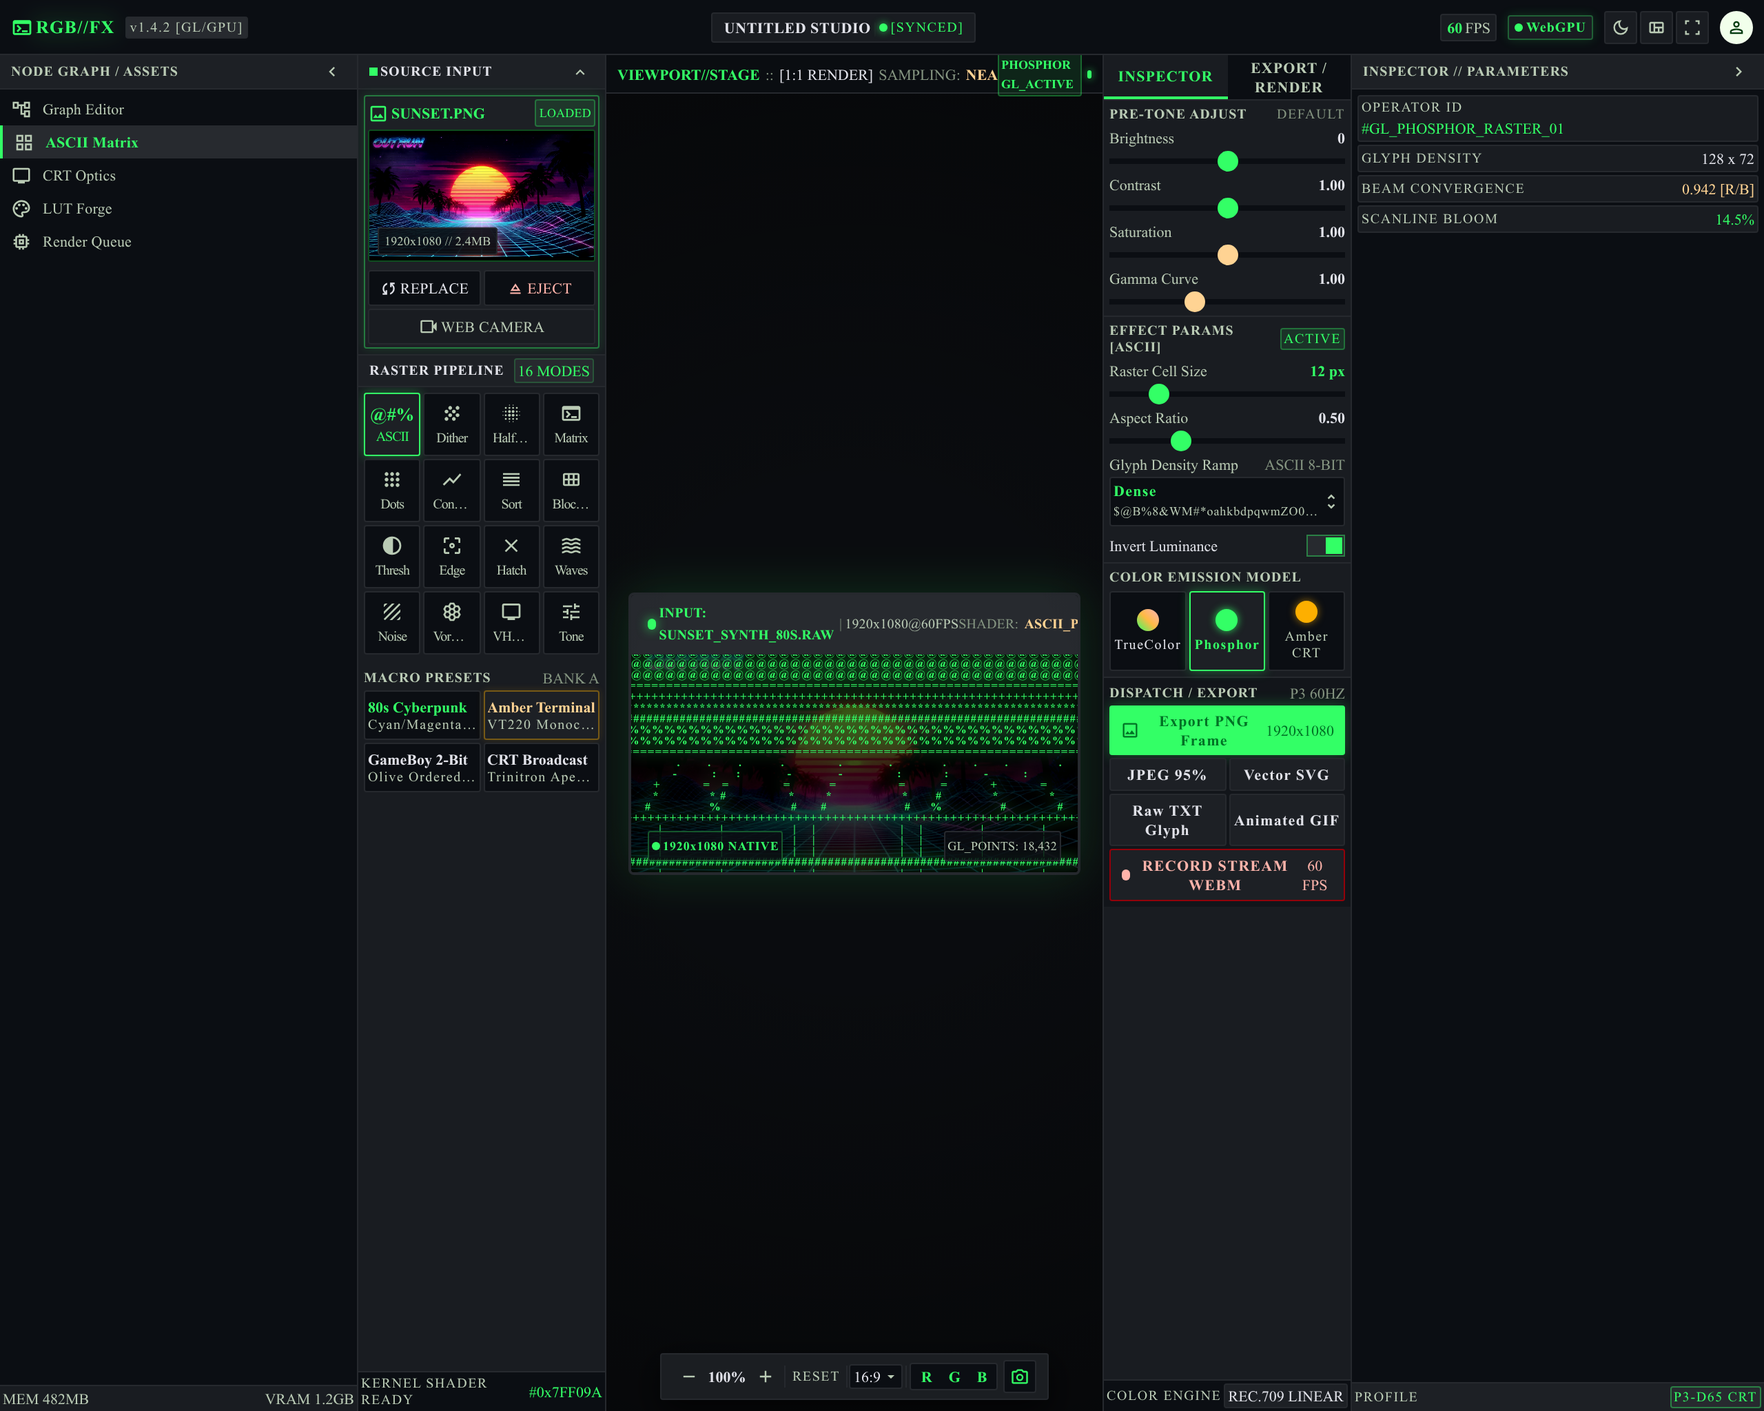
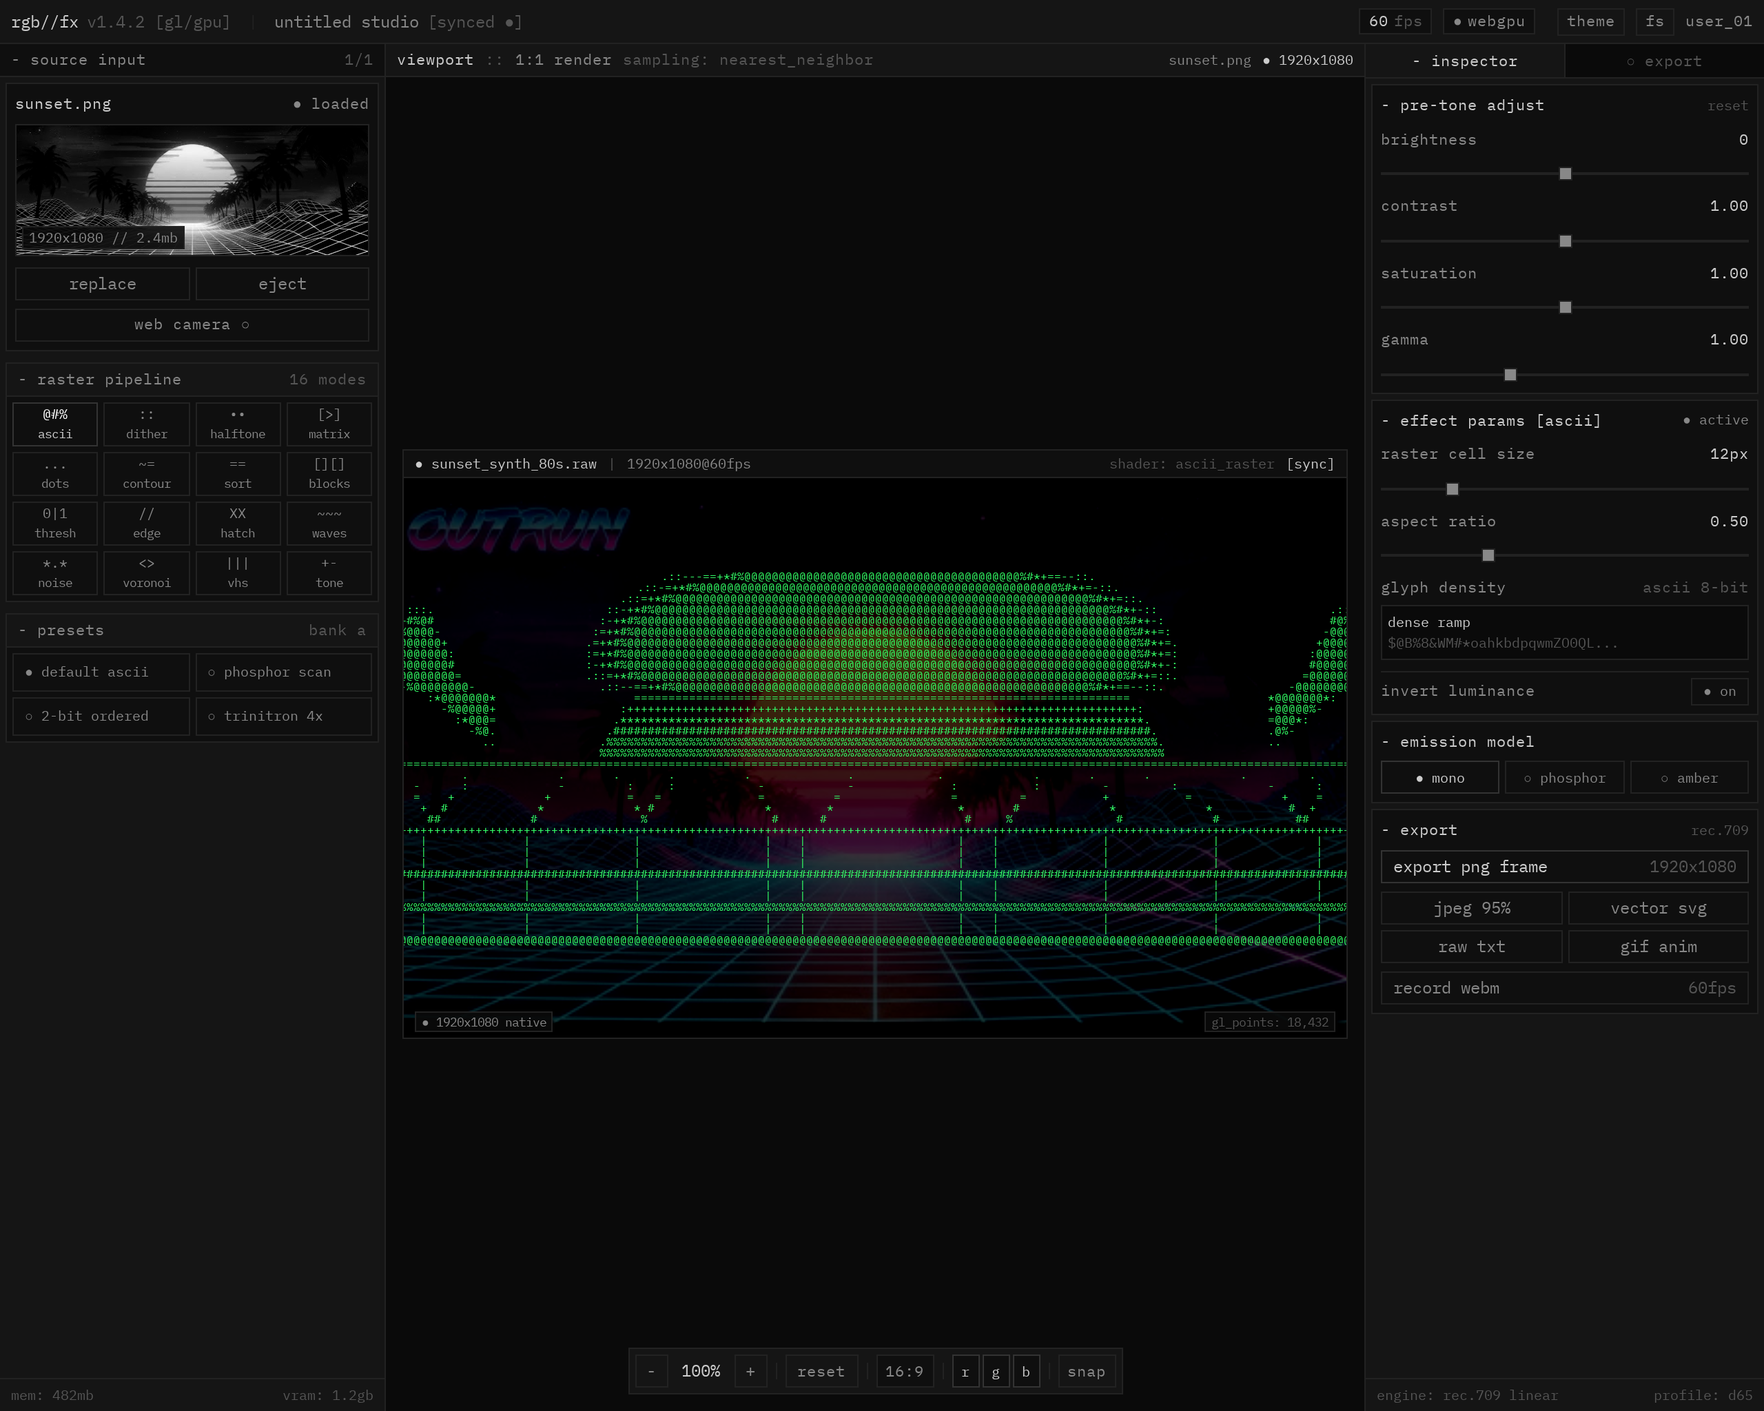
feat(02-01): monochrome Grainrad redesign - round 2
- Replace phosphor-era prototypes with Grainrad Mono Studio screenshots (r2)
- Rewrite DESIGN.md to measured grainrad.com monochrome token spec: greyscale palette, IBM Plex Mono, 24px square controls, glyph states, 4px grid, scanlines in empty standby state only, canvas-content color exception
- Update stitch-prototypes.json to round-2 screen/design-system ids

diff --git a/.planning/phases/02-studio-ui-ux-redesign-client-shader-pipeline/DESIGN.md b/.planning/phases/02-studio-ui-ux-redesign-client-shader-pipeline/DESIGN.md
@@ -1,157 +1,157 @@
-# DESIGN.md — Studio UI Design Tokens & Layout Specification
+# DESIGN.md — Studio UI Design Tokens & Layout Specification (Grainrad Mono, r2)
 
 **Phase:** 02 — Studio UI/UX Redesign & Client Shader Pipeline
 **Plan:** 02-01 (Stitch MCP prototypes + token spec)
+**Round:** 2 — monochrome "Grainrad" redesign (round 1 phosphor system `assets/df6f50a9fc4440308f061263195e879a` retired; left untouched in Stitch)
 **Source prototypes:** Stitch project `13429898272245688948` — "RGB ASCII & Retro FX Studio" (DESKTOP)
-**Design system:** "Cathode Retro FX Studio" (`assets/df6f50a9fc4440308f061263195e879a`)
-**Mockups:** `prototypes/02-01-studio-standby.png` (blank slate) · `prototypes/02-01-studio-active-media.png` (Sunset.png loaded)
+**Design system:** "Grainrad Mono Studio" (`assets/15749583180289410834`)
+**Mockups:** `prototypes/02-01-studio-standby.png` (blank slate) · `prototypes/02-01-studio-active-media.png` (media loaded, RGB ASCII canvas output)
+**Design authority:** measured from grainrad.com. The UI is a quiet greyscale instrument; all color lives in the canvas artwork only.
 
 ---
 
-## 1. Layout: Three-Column Studio Shell (D-03)
+## 1. Layout: Three-Column Studio Shell (D-03 — kept)
 
-The Studio is a fixed three-column workspace. No page scroll — only the Center Stage content area scrolls/zooms internally.
+The Studio is a fixed three-column workspace. No page scroll — only the Center Stage content area scrolls/zooms internally. The three-column shell, drag-drop interaction, and effect tile grid are carried over from round 1 unchanged.
 
 ```
 ┌──────────────────────────────────────────────────────────────────────┐
-│  Titlebar (28px): app mark · file name · project mode pill           │
+│  Titlebar (24px): route mark · app name · project status pill        │
 ├───────────────┬──────────────────────────────────┬───────────────────┤
 │               │                                  │                   │
 │  Left Rail    │           Center Stage           │    Right Rail     │
 │  (240px)      │   (flex-1, media viewport)       │    (280px)        │
 │               │                                  │                   │
-│  Media        │   Canvas with checkerboard       │  Inspector        │
-│  library      │   backing + live RGB ASCII       │  (stacked panel   │
-│  Import       │   preview render                 │   groups)         │
-│  Presets      │                                  │                   │
-│               │   [Dropzone overlay when empty]  │                   │
+│  Source input │   Canvas (black; artwork only    │  Inspector        │
+│  Pipeline     │   source of color)               │  (stacked groups: │
+│  mode tiles   │                                  │  pre-tone, ascii  │
+│  Macro        │   [Dropzone overlay when empty]  │  params, emission,│
+│  presets      │                                  │  export)          │
+│               │                                  │                   │
 ├───────────────┴──────────────────────────────────┴───────────────────┤
-│  Statusbar (24px): FPS · resolution · active FX chain · export state │
+│  Statusbar (24px): mem · vram · zoom · channel keys · profile        │
 └──────────────────────────────────────────────────────────────────────┘
 ```
 
-### 1.1 Left Rail — Media Library (240px fixed)
+### 1.1 Left Rail — Source & Pipeline (240px fixed)
 
-- **Role:** source of truth for assets. Sections: `Library`, `Import`, `Presets`.
-- Library rows: 32px thumbnail, filename (mono, 12px), size/format chip.
-- Import row is a persistent "+ Import" affordance AND the whole rail accepts drag-drop (D-04).
-- Presets list: saved FX chains, one-line summaries, star toggle.
-- Collapse affordance: rail collapses to 48px icon column on narrow viewports (container query, §4).
+- **Role:** source input + pipeline mode selection. Sections: `source input` (drop card, file/url/cam buttons), `pipeline mode` (16 effect tiles in 2 columns), `macro presets` (bank row: `terminal p01`, `pure matrix p02`, `gameboy 2b p03`, `aperture p04`).
+- Section headers: `− section name` (dash glyph) left, count/state right-aligned.
+- Effect tiles: full-width cells, 24px-minimum height, glyph-state prefix (`● ascii` active, `○ dither` idle), 12px mono text, no borders — active tile distinguished by raised background `--bg-active` only.
+- The whole rail and Center Stage accept drag-drop (D-04, kept).
 
 ### 1.2 Center Stage — Media Viewport (flex)
 
-- **Role:** the canvas. Contains the live RGB ASCII preview render (phased into Task/Plan 02-02).
-- **Blank-slate state (standby mockup):** centered dropzone card — dashed 1px border, phosphor-green on hover, copy "Drop image or video / or browse", subtle CRT scanline texture in the empty state only.
-- **Active state:** checkerboard backing behind the media, render fills stage with 8px padding, zoom % indicator bottom-right.
-- Drag-drop overlay: full-stage tint `--overlay-drag: rgba(51,255,102,0.06)` + border highlight while dragging over (D-04).
+- **Role:** the canvas. Contains the live RGB ASCII preview render (render pipeline itself lands in Plan 02-02).
+- **Blank-slate state (standby mockup):** centered empty-state — dashed 1px hairline frame, `+` affordance, copy "drop image or video / or browse" in `--text-default`, secondary hint line in `--text-dim`. **CRT scanline texture is allowed in this empty standby state only.**
+- **Active state:** media/canvas fills the stage; artwork (including the RGB ASCII output) is the ONLY place color may appear. Zoom control row pinned bottom-center (`− 100% + reset 16:9 r g b snap`), `r`/`g`/`b` are channel key buttons.
+- Drag-drop overlay: full-stage dim tint `--overlay-drag: rgba(10,10,10,0.6)` + hairline highlight while dragging over (D-04). No colored tint.
 
 ### 1.3 Right Rail — Inspector (280px fixed)
 
-- **Role:** parameter controls for the active FX chain (per STUDIO-01: inspector with live parameter controls).
-- Panel groups (accordions, one open at a time): `Source`, `ASCII`, `Color`, `Effects`, `Export`.
-- Control set: sliders (with mono numeric readouts), segmented toggles, color swatches, dropdowns.
-- Every control label 11px uppercase; value column right-aligned, tabular numbers.
-- Reset-per-group icon; "Randomize" global button in the panel header (fits the fun/dev-toy tone).
+- **Role:** parameter controls for the active FX chain (STUDIO-01, kept).
+- Panel groups (top to bottom, multiple stacked groups with 1px hairline separators): `pre-tone` (brightness/contrast/saturation/gamma sliders + reset), `ascii params` (cell size, aspect ratio, glyph ramp dropdown, invert luminance toggle), `emission model` (segmented: `mono 01 / mono 02 / mono 03`), `export / dispatch` (export png frame row + jpeg/svg/txt/gif grid + record stream row).
+- Group headers: `− group name` left, state/reset right.
+- Every control row: label left (12px mono, lowercase), value right-aligned (tabular numbers, `--text-highlight`). Slider row beneath: 1px hairline track, small square thumb, no fill color.
+- Tabs at rail top: `− inspector` (active, raised bg) / `export` (idle).
 
 ### 1.4 Chrome
 
-- **Titlebar (28px):** left — logo mark + "RGB ASCII Studio"; center — active file name; right — mode pill (`Text` / `Image` / `Video`) and command-palette hint (⌘K).
-- **Statusbar (24px):** FPS readout, source resolution, grid size, active FX chain summary, export/encode state. Mono 11px, dim text.
+- **Titlebar (24px):** left — route mark (`rgb://fx / grainrad v1.4.2 [gpu]`); center — project name + status pill (`untitled studio | ● synced`); right — fps readout, backend tag (`webgpu`), window glyphs, user tag. All 12px mono, dim; the synced dot is the only bright accent in chrome (a filled ● in `--text-highlight`).
+- **Statusbar (24px):** left — `mem 482mb`, `vram 1.2gb`; right — `profile  rec.709 linear`. Mono 12px, dim text. No icons, no color.
 
 ---
 
 ## 2. Design Tokens
 
-The full token sheet below is the contract the client implementation consumes. Tokens are CSS custom properties; do not hardcode raw values in components.
+The full token sheet below is the contract the client implementation consumes. Tokens are CSS custom properties; do not hardcode raw values in components. All values measured from grainrad.com.
 
-### 2.1 Color
+### 2.1 Color — pure greyscale
 
 | Token | Value | Use |
 |---|---|---|
-| `--bg-base` | `#0d0f12` | App background, rails, chrome |
-| `--bg-panel` | `#12151a` | Raised panels, inspector cards |
-| `--bg-input` | `#0a0c0f` | Inputs, sliders, code-ish fields |
-| `--border-1` | `#26292e` | 1px hairlines, panel separators |
-| `--border-2` | `#34383e` | Hover borders, focused control edges |
-| `--text-primary` | `#e8eaed` | Headings, filenames, values |
-| `--text-secondary` | `#9aa0a8` | Labels, secondary copy |
-| `--text-dim` | `#5c6167` | Placeholder, disabled, statusbar |
-| `--accent-phosphor` | `#33ff66` | Primary accent — active states, dropzone, focus rings, R channel |
-| `--accent-amber` | `#ffb000` | Secondary accent — G channel highlight, warnings, record state |
-| `--accent-cyan` | `#4dd0e1` | B channel highlight, info chips |
-| `--accent-danger` | `#ff5252` | Destructive, error states |
-| `--overlay-drag` | `rgba(51,255,102,0.06)` | Drag-over stage tint (D-04) |
+| `--bg-base` | `#0a0a0a` | App background, canvas, statusbar |
+| `--bg-active` | `#0f0f0f` | Active tile, active tab, focused row |
+| `--bg-raised` | `#151515` | Panels, buttons at rest, controls |
+| `--border-hairline` | `#222222` | 1px hairlines, separators, dashed dropzone frame |
+| `--text-dim` | `#555555` | Placeholder, disabled, secondary hints |
+| `--text-default` | `#888888` | Labels, body text, chrome |
+| `--text-highlight` | `#cccccc` | Values, active labels, primary copy |
+| `--text-max` | `#ffffff` | Sparing only (e.g. active value digits) |
+| `--overlay-drag` | `rgba(10,10,10,0.6)` | Drag-over stage dim tint (D-04) |
 | `--overlay-scrim` | `rgba(0,0,0,0.55)` | Modal/scrim |
 
-Channel semantics: phosphor green / amber / cyan map to the RGB channels of the ASCII renderer — use them consistently when visualizing channel splits.
+**Prohibited in UI chrome:** phosphor green, amber, magenta, cyan, any hue. No glow, no colored borders, no colored focus rings, no channel-colored accents in chrome. Depth and state are expressed by background contrast and glyph states only.
 
-### 2.2 Typography
+**Exception — canvas content:** the artwork rendered on Center Stage (source media, RGB ASCII output) MAY contain color. This is content, not chrome.
+
+### 2.2 Typography — IBM Plex Mono only
 
 | Token | Value |
 |---|---|
-| `--font-mono` | `"JetBrains Mono", ui-monospace, "Cascadia Code", Consolas, monospace` |
-| `--font-ui` | `"Inter", system-ui, sans-serif` (labels only; everything else mono) |
-| `--text-title` | 15px / 600 / mono |
-| `--text-body` | 13px / 400 / mono |
-| `--text-label` | 11px / 500 / uppercase / letter-spacing 0.06em |
-| `--text-micro` | 10px / 400 / statusbar & badges |
+| `--font-mono` | `"IBM Plex Mono", ui-monospace, Consolas, monospace` |
+| `--text-base` | 16px / 400 / mono — the one base size |
+| `--text-control` | 12px / 400 / mono — labels, buttons, tiles, chrome |
+| `--text-value` | 12px / 400 / mono / `font-variant-numeric: tabular-nums` — right-aligned values |
 
-### 2.3 Spacing & Radius
+**Rules:** no bold for hierarchy (400 everywhere; weight never encodes importance), no italic, no text-transform (everything lowercase), no letter-spacing adjustments, no non-mono typeface anywhere. Hierarchy comes from size (16 vs 12) and color step (`--text-default` vs `--text-highlight`).
+
+### 2.3 Spacing & Radius — 4px grid, square corners
 
 | Token | Value | Use |
 |---|---|---|
 | `--space-1` | 4px | Tight control internals |
-| `--space-2` | 8px | Control gaps, list padding |
-| `--space-3` | 12px | Panel padding, group gaps |
-| `--space-4` | 16px | Rail padding, section spacing |
-| `--space-6` | 24px | Stage padding, empty-state spacing |
-| `--radius-sm` | 2px | Chips, inputs |
-| `--radius-md` | 4px | Buttons, thumbnails |
-| `--radius-lg` | 8px | Dropzone card, modals |
+| `--space-2` | 8px | Horizontal control padding, group gaps |
+| `--space-3` | 12px | Vertical padding, list row spacing |
+| `--space-4` | 16px | Rail/panel padding |
+| `--radius` | **0** | Everything. No rounded corners anywhere in chrome. |
 
 ### 2.4 Borders, Elevation, Effects
 
-- **Hairline rule:** ALL separation is 1px `--border-1`. No drop shadows between panels — depth comes from background contrast (`--bg-panel` vs `--bg-base`), not shadow.
-- `--shadow-raised: 0 4px 16px rgba(0,0,0,0.5)` — modals only.
-- `--scanline: repeating-linear-gradient(0deg, rgba(255,255,255,0.02) 0 1px, transparent 1px 3px)` — decorative CRT texture, empty states & preview frame only, `pointer-events: none`.
-- `--focus-ring: 0 0 0 1px var(--accent-phosphor)` — replaces browser outlines on all interactive elements (keep `:focus-visible` semantics).
+- **No visible control borders.** Controls (buttons, tiles, rows) are distinguished purely by background steps: `--bg-base` → `--bg-raised` (rest) → `--bg-active` (active/hover/focus). Hairlines (`--border-hairline`, 1px) exist only as section separators and the dashed empty-state frame.
+- **No shadows.** Depth via background contrast only.
+- **No glow.** `text-shadow`, `box-shadow` glow, phosphor bloom — none in chrome.
+- `--scanline: repeating-linear-gradient(0deg, rgba(255,255,255,0.02) 0 1px, transparent 1px 3px)` — CRT texture, **empty standby state only**, `pointer-events: none`. Never on panels, controls, or populated canvas.
+- `:focus-visible` → background step to `--bg-active` (no outline ring, no color).
 
 ### 2.5 Motion
 
 | Token | Value | Use |
 |---|---|---|
-| `--dur-fast` | 120ms | Hover/focus, control state |
-| `--dur-med` | 200ms | Panel expand, rail collapse |
+| `--dur-fast` | 100ms | Hover/focus background step |
+| `--dur-med` | 160ms | Panel expand, state flips |
 | `--ease` | `cubic-bezier(0.2, 0, 0, 1)` | All transitions |
 
 ---
 
 ## 3. Component Guidelines (Inspector controls per STUDIO-01)
 
-- **Slider:** 2px track `--bg-input` with `--border-1`, filled portion phosphor green, 12px square thumb (mono aesthetic), value readout right-aligned in tabular mono. Double-click value → inline edit.
-- **Segmented toggle:** equal-width cells, 1px separators, active cell `--bg-input` + phosphor text.
-- **Dropdown:** mono list, keyboard navigable, active row phosphor text.
-- **Swatch row (channel colors):** square swatches with 1px border; selected swatch gets `--focus-ring`.
-- **Accordion group:** header row (label + chevron), 1px divider, 12px group padding; only one open at a time.
-- **Dropzone card (D-04):** 8px-radius card, dashed 1px `--border-2`, phosphor border + tint on hover/drag-over, centered mono copy, entire Center Stage is also a drop target.
-- **Library row:** 32px thumb (checkerboard backing for transparent assets), name truncated, format chip in `--text-dim`.
+- **Control geometry (all interactive chrome):** 24px height, `6px 8px` padding, 12px mono text, radius 0, no visible border. Rest = `--bg-raised`; hover/focus/active = `--bg-active`.
+- **Slider:** 1px hairline track, small (8px) square thumb, no color fill. Label left, value right in tabular mono; double-click value → inline edit.
+- **Segmented toggle / mode tiles:** equal-width cells, glyph-state prefix — `●` active, `○` idle — followed by lowercase label. Active cell gets `--bg-active` + `--text-highlight`; no color, no border change.
+- **Dropdown:** mono list, keyboard navigable, chevron at row end; selected row `--bg-active`.
+- **Toggle (`invert luminance`):** compact right-aligned pill, `● on` / `○ off` glyph state.
+- **Accordion/stacked groups:** header row (`− group` + state right), 1px hairline separator between groups; groups stay visible (no accordion collapse needed in v1).
+- **Dropzone card (D-04):** dashed 1px `--border-hairline` frame, `+` glyph, centered mono copy in `--text-default`/`--text-dim`. On drag-over: stage dims via `--overlay-drag`, frame steps to solid hairline. No green.
+- **Macro preset row:** label + bank tag (`terminal p01`), rest = `--bg-raised`.
+- **Export grid:** 2-column button grid (`jpeg 95%` / `vector svg` / `raw txt` / `anim gif`), full-width primary row (`export png frame` with right-aligned `1920x1080`).
 
 ---
 
 ## 4. Responsive / Container Queries
 
 - Studio shell uses container queries, not viewport media queries, so the app behaves the same embedded or full-window:
-  - `@container (max-width: 1100px)` → Left Rail collapses to 48px icon rail; inspector remains.
+  - `@container (max-width: 1100px)` → Left Rail collapses to 48px icon/glyph column; inspector remains.
   - `@container (max-width: 800px)` → Right Rail becomes a bottom sheet-style overlay, toggled from the statusbar.
 - Center Stage canvas scales with `aspect-ratio` preserved; letterboxed by `--bg-base`.
 
 ---
 
-## 5. Prototype Cross-Reference
+## 5. Prototype Cross-Reference (r2)
 
 | State | Screen ID | Screenshot | Notes |
 |---|---|---|---|
-| Standby (blank slate) | `bd8d6a99afa84db6a886f4582c52053b` | `prototypes/02-01-studio-standby.png` | Dropzone, empty library, default inspector |
-| Active media (Sunset.png) | `1ecf3101e2a940a19f3a1cd0a30a2d18` | `prototypes/02-01-studio-active-media.png` | Canvas render, populated inspector + library |
+| Standby (blank slate) | `1413dc7c5bce4a51b610710f5b31ee09` | `prototypes/02-01-studio-standby.png` | Dropzone, 16 mode tiles, macro presets, inspector defaults; scanlines in empty stage only |
+| Active media (RGB ASCII output) | `3a0e2c0aff1b44fcacb6e4d44c925c26` | `prototypes/02-01-studio-active-media.png` | Populated library + inspector; color ONLY in canvas artwork |
 
 Machine-readable identifiers: `stitch-prototypes.json` (same directory).
